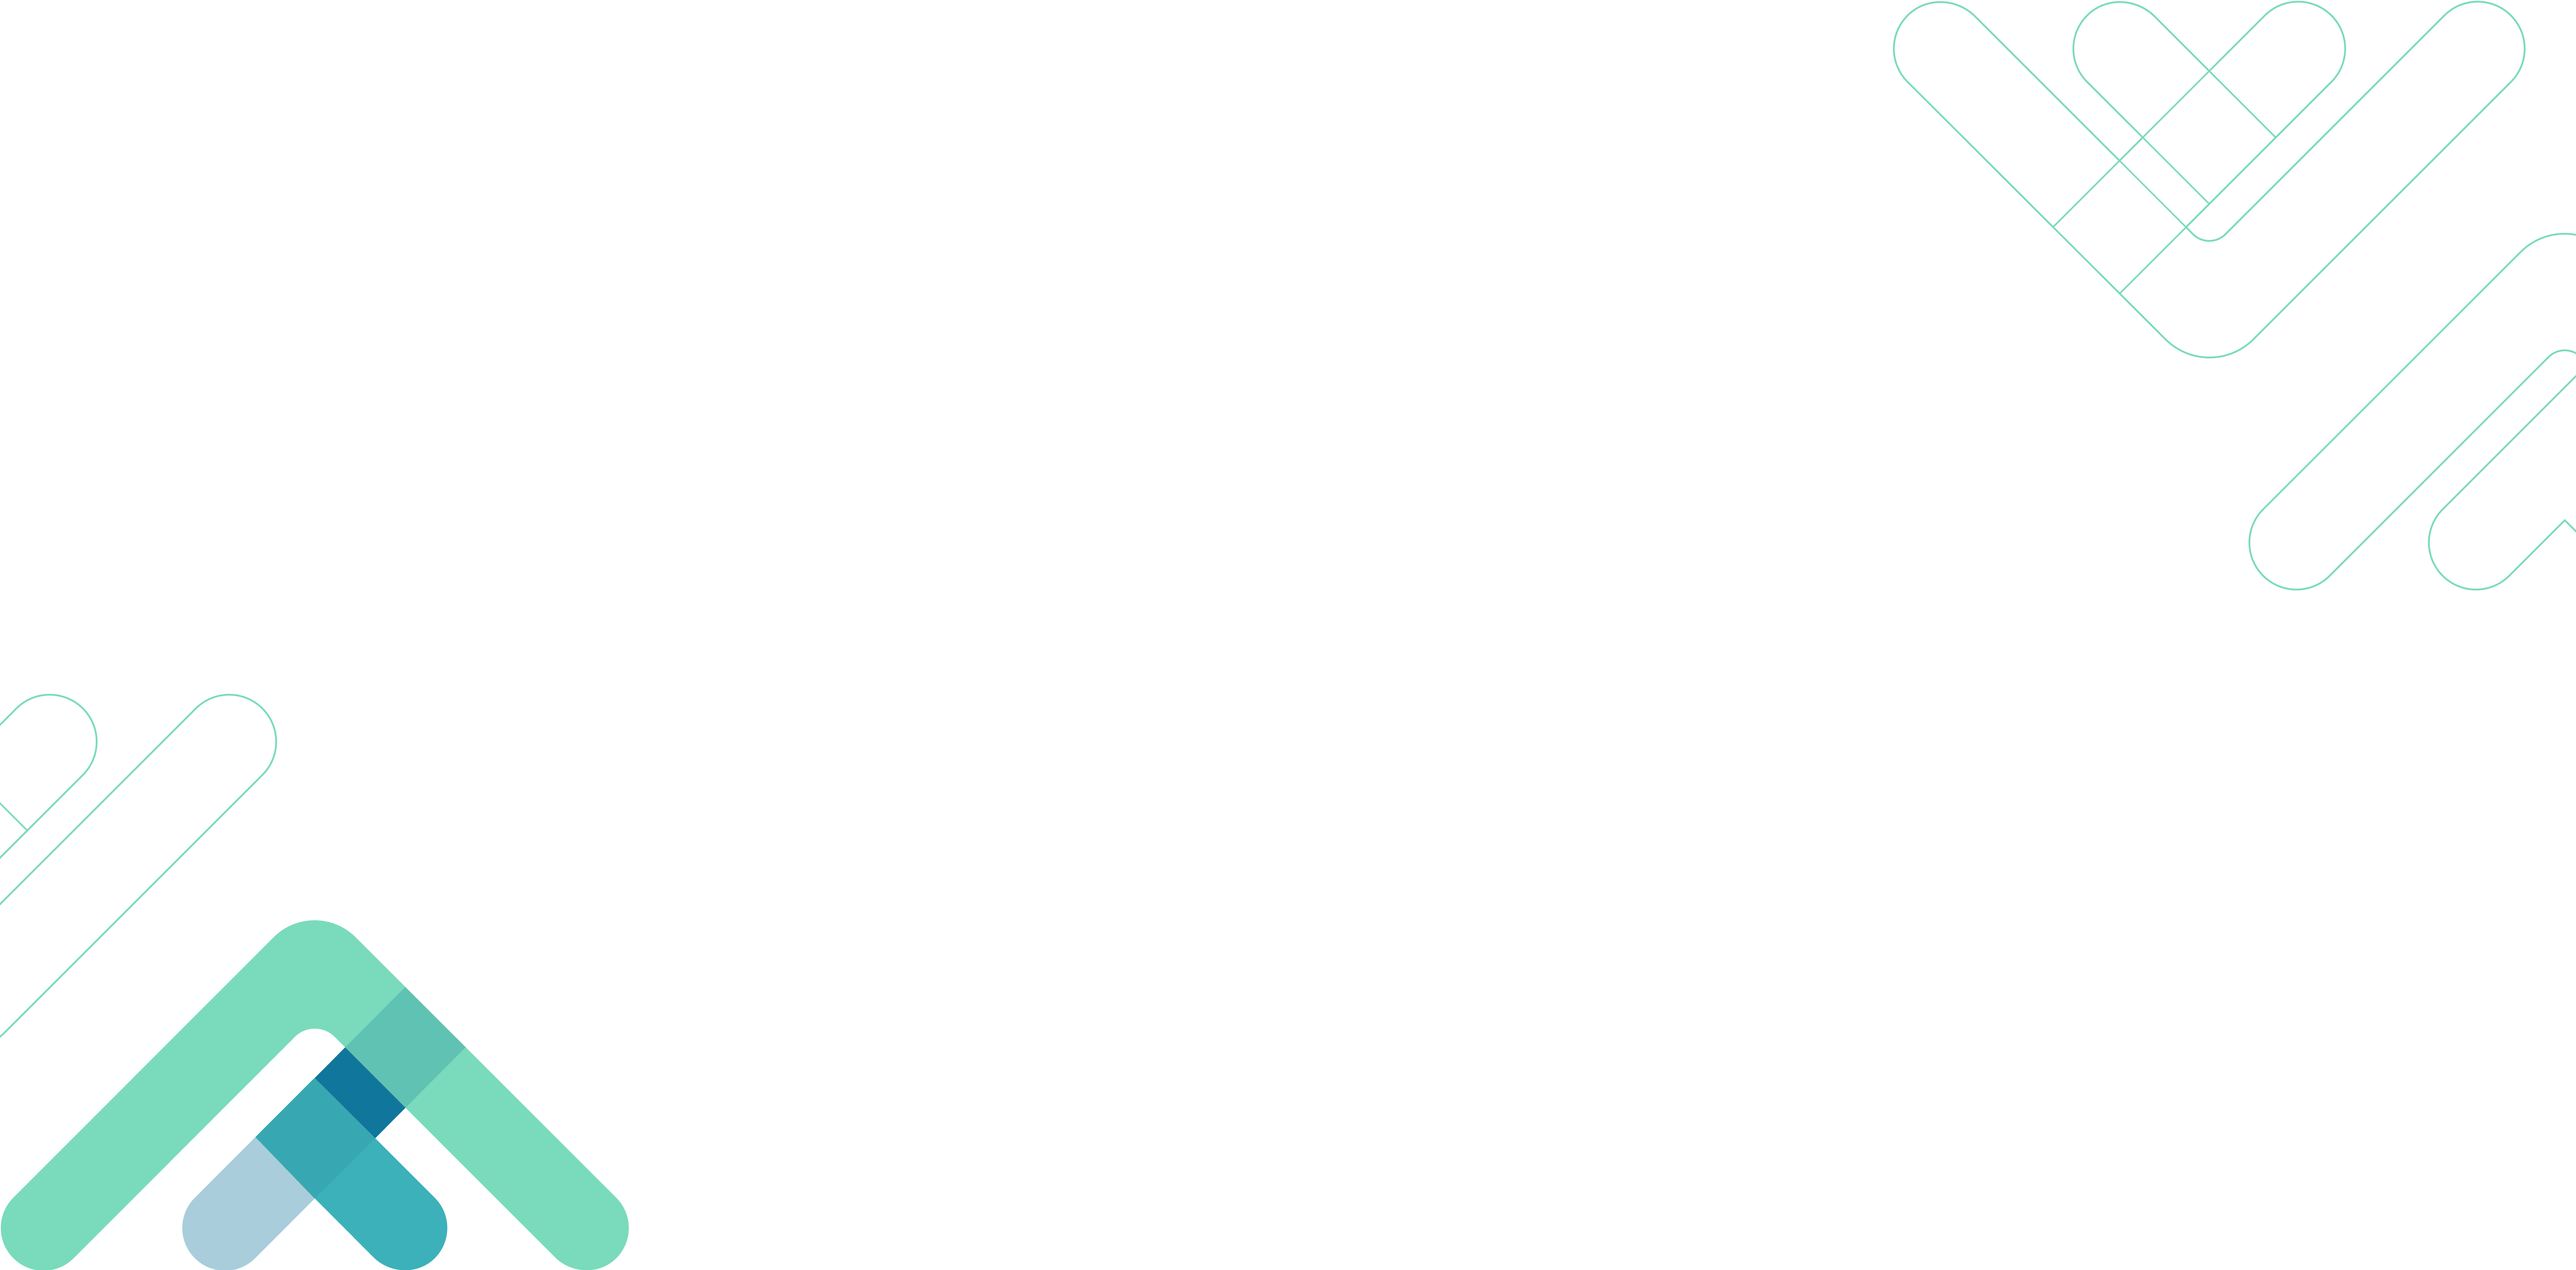
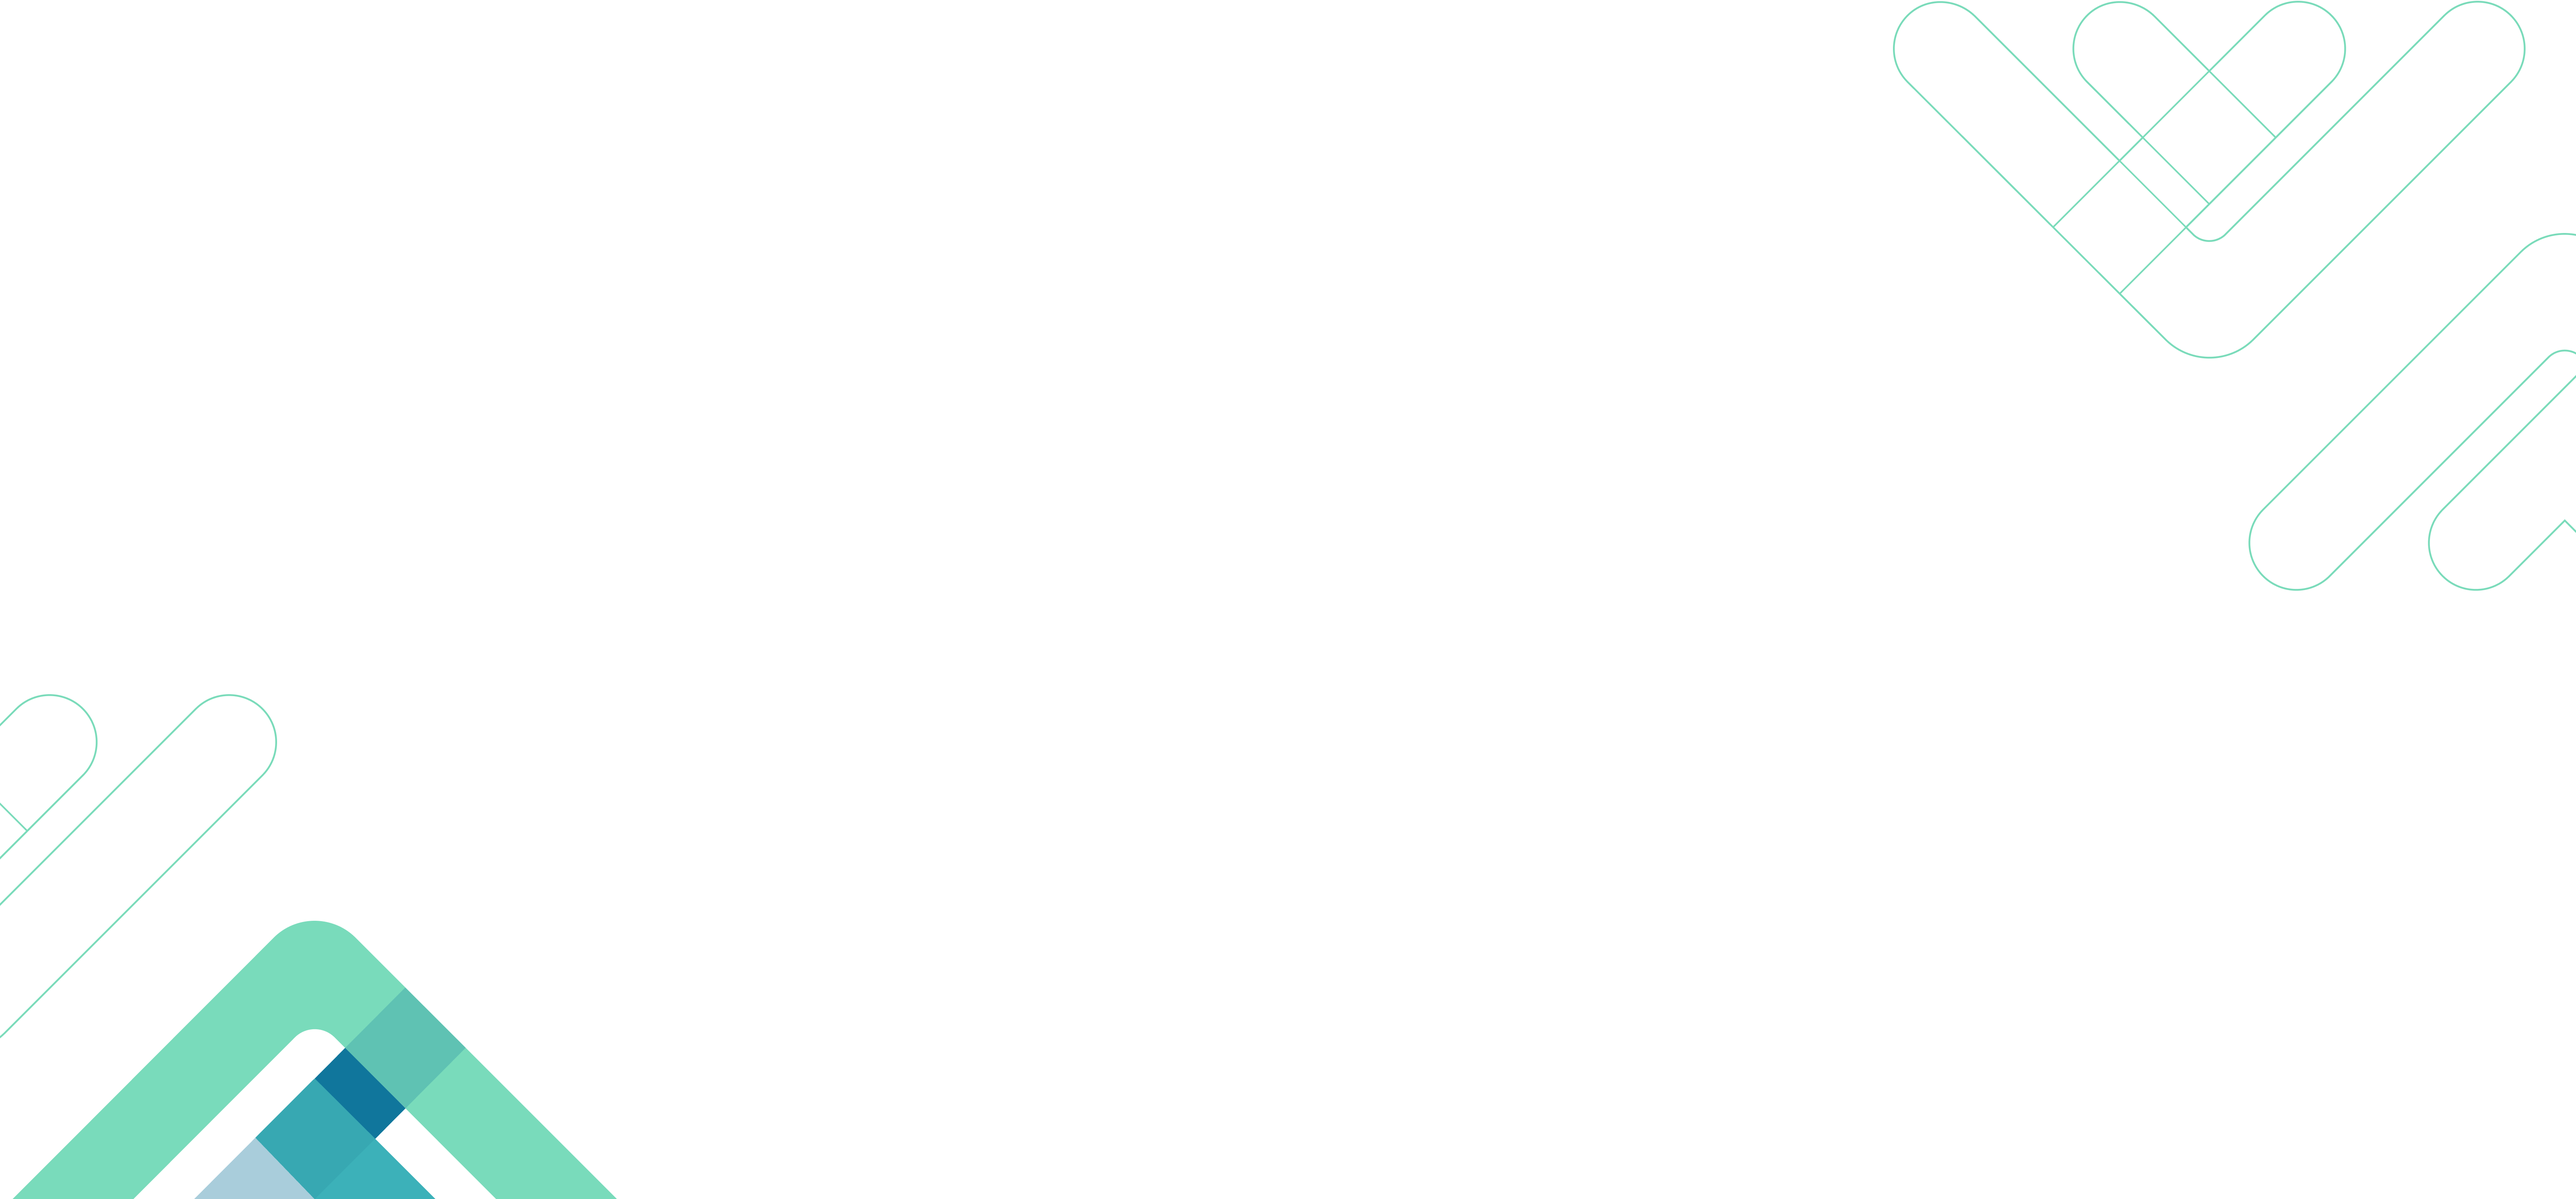
Fixed blueprint background issue.

diff --git a/hugo/static/css/style.css b/hugo/static/css/style.css
@@ -1522,6 +1522,10 @@ hr {
     }
 }
 
+.section__blueprint-copy {
+  position: relative;
+}
+
 .section__blueprint-copy .section__heading {
     margin-left: -6px;
     background: #fff;
@@ -1539,6 +1543,14 @@ hr {
     padding-top: 0;
 }
 
+.section__blueprint-copy-2 {
+  padding-bottom: 80px;
+}
+
+.section__blueprint-copy-2 .section__blueprint-copy-wrapper:before {
+  height: calc(100% + 80px);
+}
+
 .section__blueprint-copy-2 .container {
     background: #ECF9FE;
 }
@@ -1553,7 +1565,15 @@ hr {
 }
 
 @media(min-width: 1200px) {
-    .section__blueprint-copy-2 {
+    .section__blueprint-copy-2:before {
+      content: '';
+        width: 100%;
+        height: 100%;
+        position: absolute;
+        top: 0;
+        left: 0;
+        pointer-events: none;
+        z-index: 2;
         background-image: url(../images/blueprint-copy-2-bg.png);
         background-size: 100% auto;
         background-position: bottom center;
